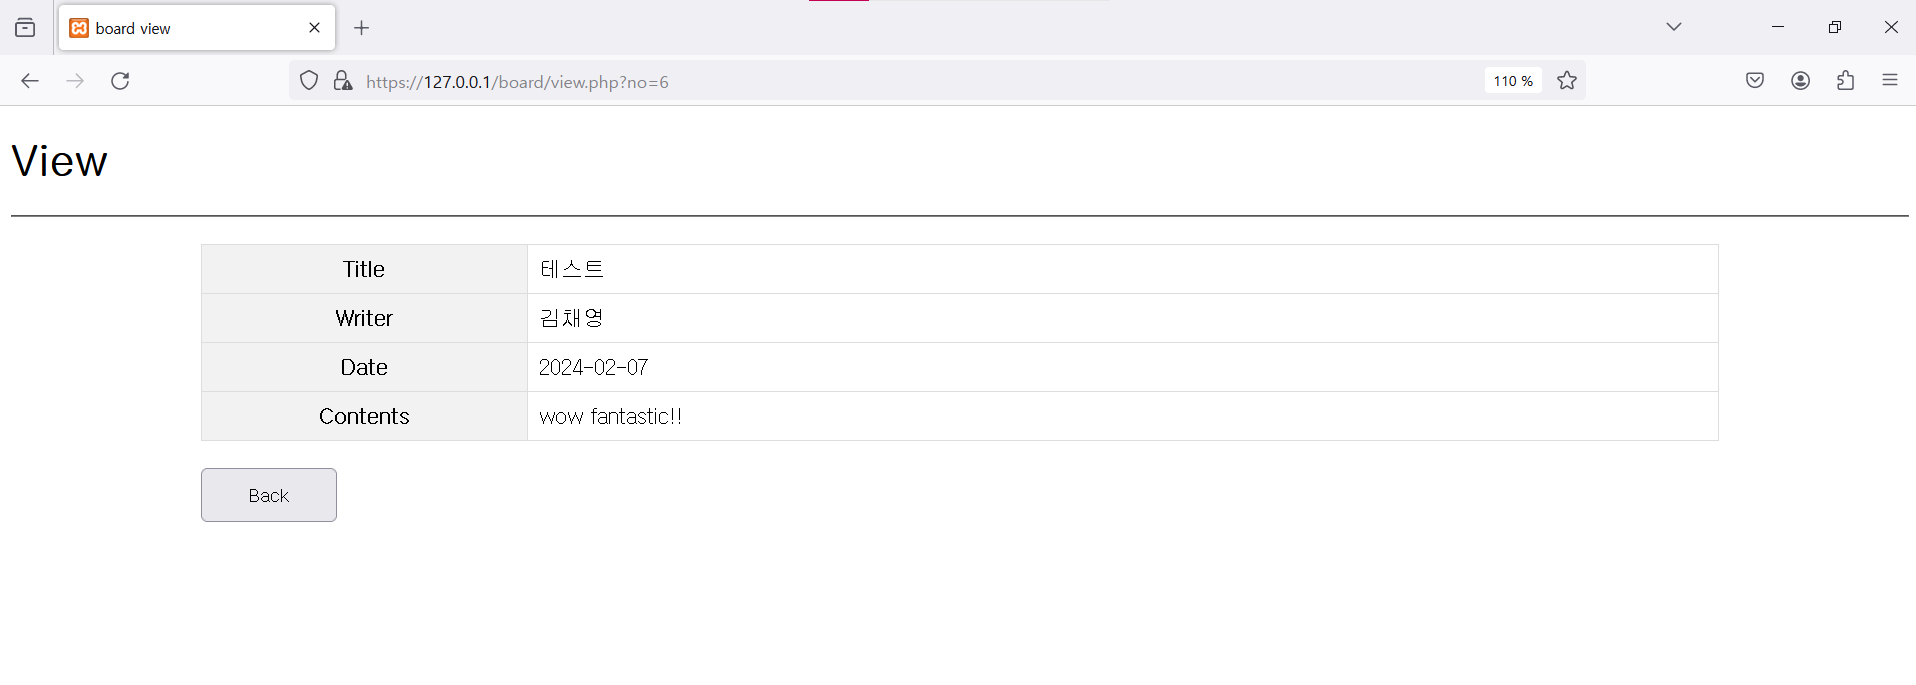
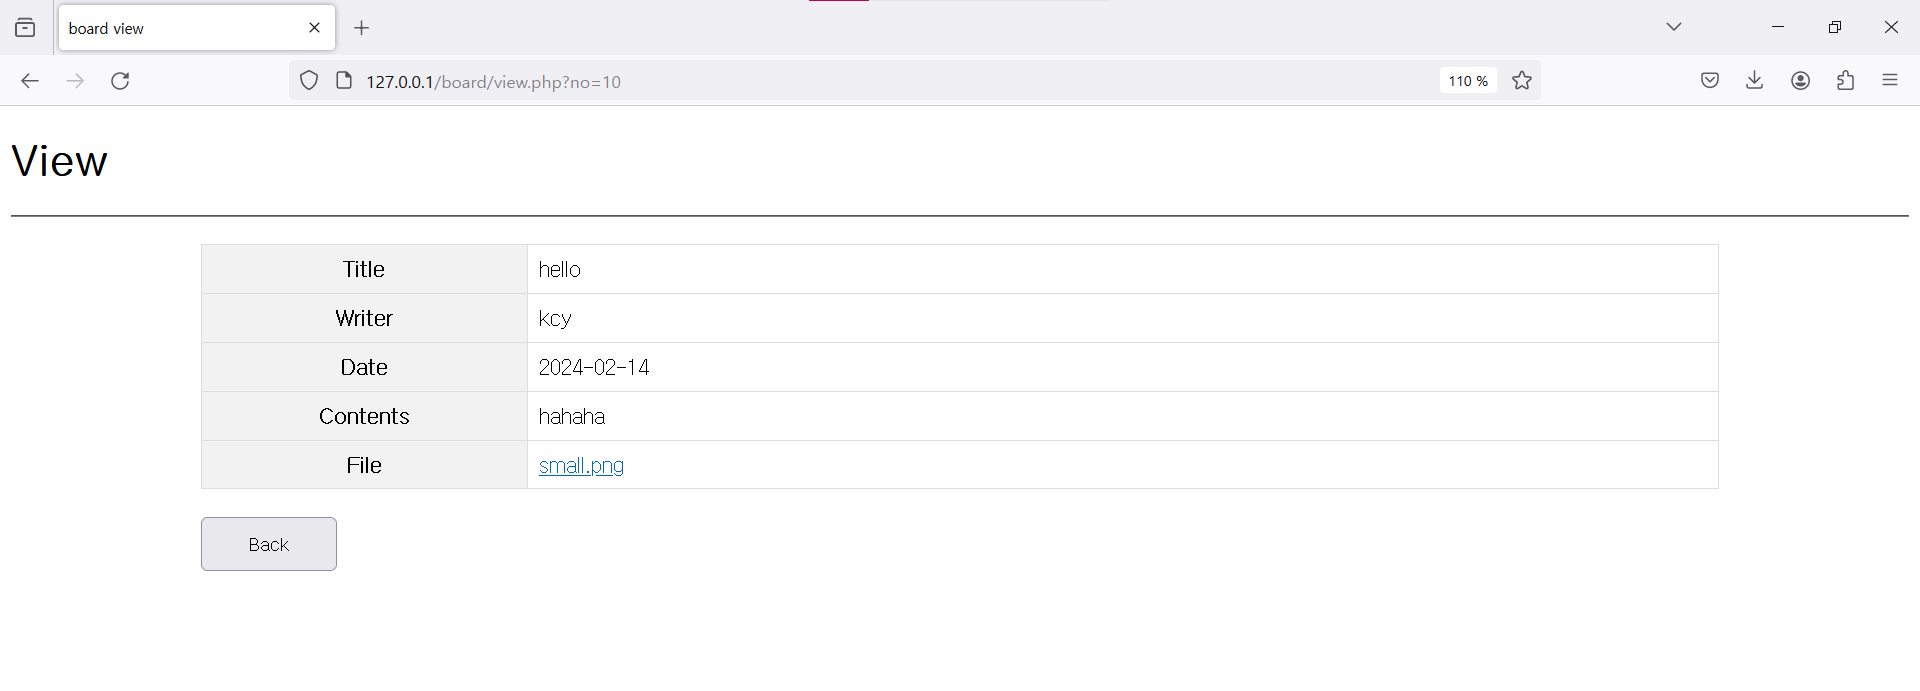
02/14 업로드/다운로드 기능 추가

diff --git a/action.php b/action.php
@@ -8,14 +8,25 @@
     $writer = $_POST["writer"];
     $password = $_POST["password"];
     $content = $_POST["content"];
+    $uploadFile = "";
 
     if(empty($title) || empty($writer) || empty($password) || empty($content)) {
         echo "<script>alert('빈칸이 존재합니다.');history.back(-1);</script>";
         exit();
     }
+
+    if(!empty($_FILES["userfile"]["name"])) {
+        $uploadFile = $_FILES["userfile"]["name"];
+        $uploadPath = "{$upload_path}/{$uploadFile}";
+        
+        if(!(@move_uploaded_file($_FILES['userfile']['tmp_name'], $uploadPath))) {
+            echo("<script>alert('파일 업로드를 실패 하셨습니다.');history.back(-1);</script>");
+            exit;
+        }
+    }
     
     $content = str_replace("\r\n", "<br>", $content);
-    $query = "insert into {$tb_name}(title, writer, password, content, file, regdate) values('{$title}', '{$writer}', '{$password}', '{$content}', null, now())";
+    $query = "insert into {$tb_name}(title, writer, password, content, file, regdate) values('{$title}', '{$writer}', '{$password}', '{$content}', '{$uploadFile}', now())";
     $db_conn->query($query);
 	
 

diff --git a/download.php b/download.php
@@ -1,0 +1,21 @@
+<?
+    include_once("./db.php");
+    header("Content-Type: text/html; charset=UTF-8");
+    $filename = $_GET["filename"];
+    $filepath = "{$upload_path}/{$filename}";
+
+    if(empty($filename)) {
+        echo "<script>alert('파일명이 존재하지 않습니다.');history.back(-1);</script>";
+        exit();
+    }
+
+    if(strpos($filename, "/") !== false || strpos($filename, "..") !== false || strpos($filename, "\\") !== false) {
+        echo "<script>alert('허용되지 않은 문자가 포함되었습니다.');history.back(-1);</script>";
+        exit();
+    }
+
+    header("Content-Type: application/octet-stream");
+    header("Content-Disposition: attachment; filename={$filename}");
+
+    readfile($filepath);
+?>

diff --git a/write.php b/write.php
@@ -45,7 +45,7 @@
     <h1>Write</h1>
     <hr>
     <div class="container">
-		<form action="action.php" method="POST">
+		<form action="action.php" method="POST" enctype="multipart/form-data">
             <label for="title">Title</label>
             <input type="text" name="title" placeholder="Title Input">
 
@@ -57,6 +57,9 @@
 
             <label for="password">Password</label>
             <input type="password" name="password" placeholder="Password Input">
+
+            <label for="file">File</label>
+			<input type="file" class="form-control" name="userfile">
 
             <div class="btns">
                 <button type="submit">Write</button>

diff --git a/view.php b/view.php
@@ -90,6 +90,12 @@
                         <div class="contents-container"><?=$row["content"]?></div>
                     </td>
                 </tr>
+                <? if(!empty($row["file"])) { ?>
+                <tr>
+                    <th scope="row" width="20%" class="text-center">File</th>
+                    <td><a href="download.php?filename=<?=$row["file"]?>"><?=$row["file"]?></a></td>
+                </tr>
+                <? } ?>
                 </tbody>
             </table>
         </div>

diff --git a/db.php b/db.php
@@ -2,6 +2,7 @@
 	header("Content-Type: text/html; charset=UTF-8;");
 
 	$tb_name = "my_board";
+	$upload_path = "upload";
 
 	function mysql_conn() {
 		$host = "127.0.0.1";
